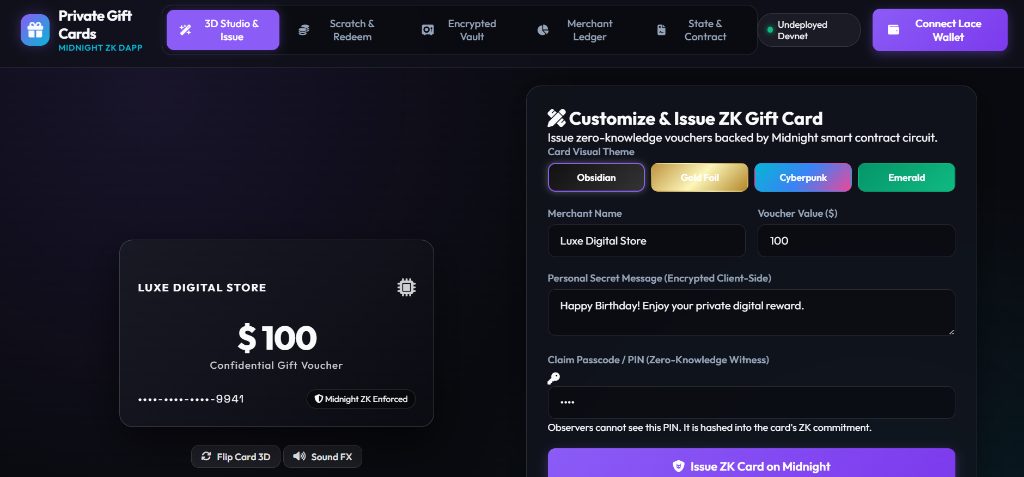
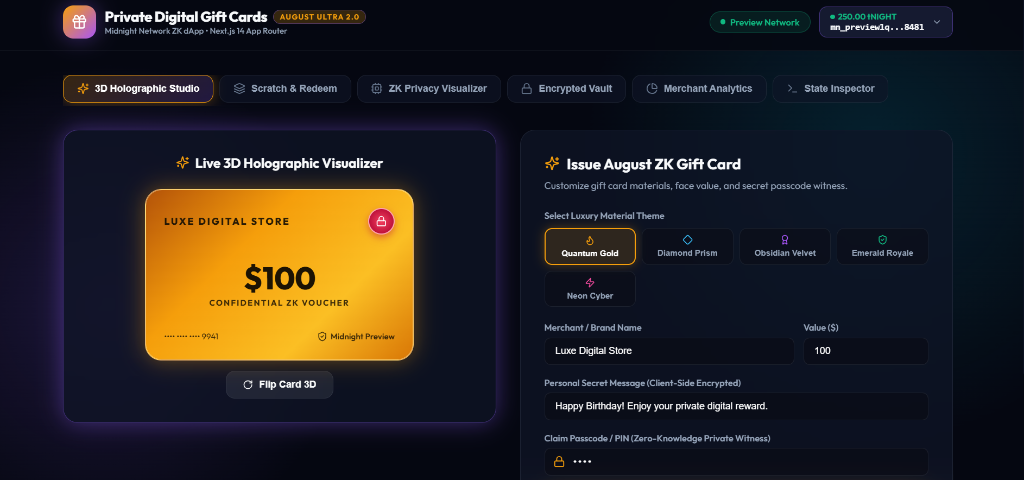
docs: update 3D Holographic Studio screenshot and heading in README.md

diff --git a/README.md b/README.md
@@ -25,8 +25,8 @@
 
 ## Screenshots & Visual Walkthrough
 
-### 1. 3D Studio & Issue Portal
-![3D Studio & Issue](assets/01-3d-studio-issue.png)
+### 1. 3D Holographic Studio & Voucher Issuance
+![3D Holographic Studio & Voucher Issuance](assets/01-3d-studio-issue.png)
 
 ### 2. Scratch & Redeem Portal
 ![Scratch & Redeem](assets/02-scratch-redeem.png)
